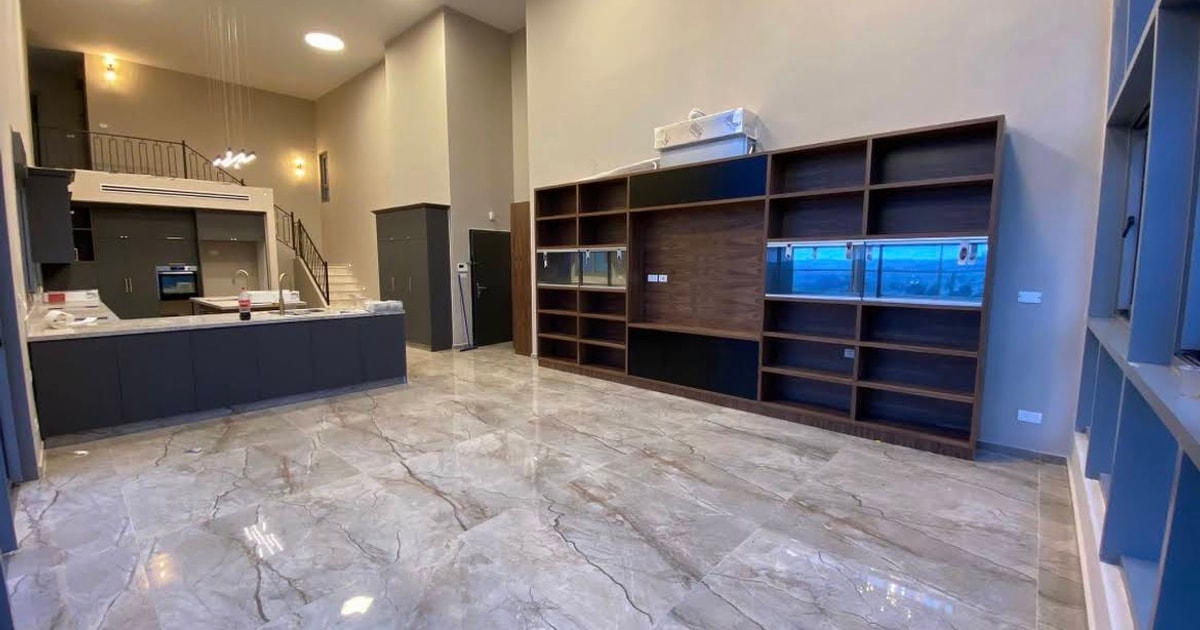
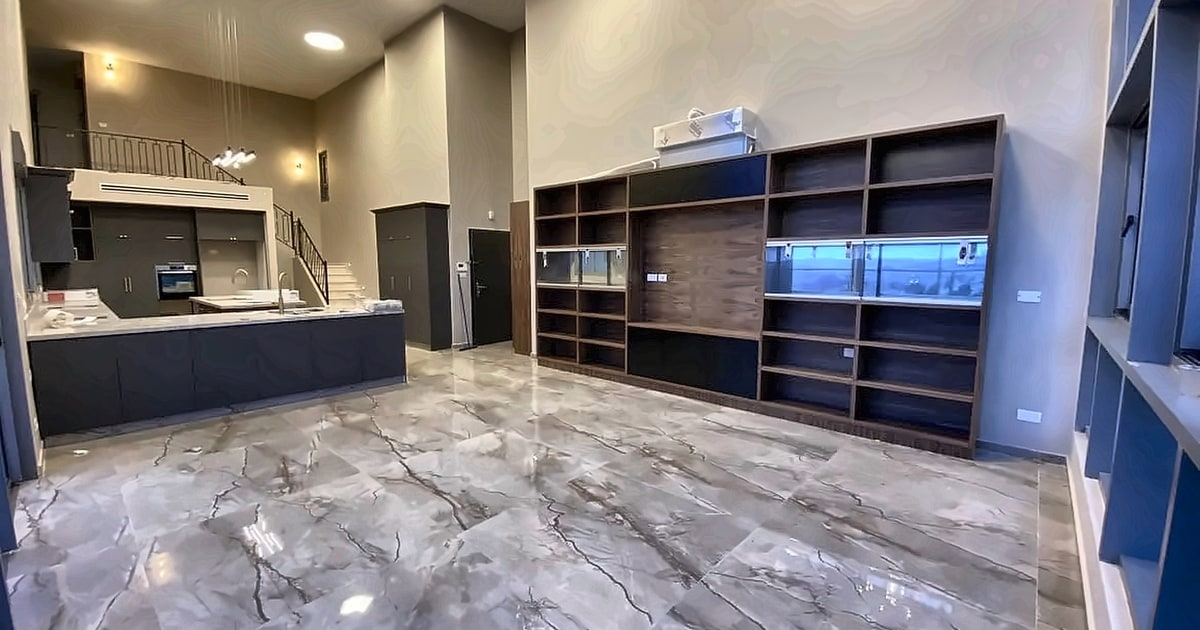
Remove the Coke bottle and sharpen project photos
- Remove the Coca-Cola bottle from the hero and the charcoal-kitchen
  photos (scripts/remove_bottle.py rebuilds the background from the
  surrounding rows, following the diagonal counter edge where needed)
- Add scripts/enhance_photos.py: JPEG-artefact denoise, 2x Lanczos
  upscale and luminance sharpening (no AI), output in assets/enhanced
- Serve every photo as 1x + 2x WebP via srcset/sizes, so retina and
  wide screens get the 2340px version

Claude-Session: https://claude.ai/code/session_019vJLFPGqvdvUTMiYhGripk

diff --git a/src/components/Sections.tsx b/src/components/Sections.tsx
@@ -1,5 +1,5 @@
 import { Star } from "lucide-react";
-import { galleryOrder, googleReviewsUrl, photos } from "../content/site";
+import { galleryOrder, googleReviewsUrl, photoSrcSet, photos } from "../content/site";
 import { useLang } from "../lib/i18n";
 import { ServiceGlyph } from "./icons";
 
@@ -68,6 +68,8 @@ export function About() {
           <div className="arch relative aspect-[3/4] shadow-[0_30px_60px_-30px_rgb(28_23_19/0.5)]">
             <img
               src={photo.src}
+              srcSet={photoSrcSet(photo)}
+              sizes="(min-width: 1024px) 28rem, 90vw"
               width={photo.width}
               height={photo.height}
               alt={photo.alt[lang]}
@@ -131,6 +133,8 @@ export function Gallery() {
               <li key={key} className="masonry-item">
                 <img
                   src={p.src}
+                  srcSet={photoSrcSet(p)}
+                  sizes="(min-width: 1024px) 25vw, (min-width: 768px) 33vw, 50vw"
                   width={p.width}
                   height={p.height}
                   alt={p.alt[lang]}

diff --git a/src/components/Hero.tsx b/src/components/Hero.tsx
@@ -1,5 +1,5 @@
 import { Phone, Star } from "lucide-react";
-import { business, googleReviewsUrl, photos, whatsappUrl } from "../content/site";
+import { business, googleReviewsUrl, photoSrcSet, photos, whatsappUrl } from "../content/site";
 import { useLang } from "../lib/i18n";
 import { WhatsAppIcon } from "./icons";
 
@@ -11,6 +11,8 @@ export function Hero() {
     <section aria-labelledby="hero-title" className="on-dark relative isolate overflow-hidden bg-night">
       <img
         src={photo.src}
+        srcSet={photoSrcSet(photo)}
+        sizes="100vw"
         width={photo.width}
         height={photo.height}
         alt={photo.alt[lang]}

diff --git a/src/content/site.ts b/src/content/site.ts
@@ -44,6 +44,11 @@ export type Photo = {
   alt: Record<Lang, string>;
 };
 
+/** 1x and 2x (enhanced) WebP variants, for srcset. */
+export function photoSrcSet(p: Photo) {
+  return `${p.src} ${p.width}w, ${p.src.replace(/\.webp$/, "@2x.webp")} ${p.width * 2}w`;
+}
+
 // Every photo is a real project by the business. Alt text describes what is actually in the frame.
 export const photos: Record<string, Photo> = {
   livingDoubleHeight: {

diff --git a/src/routes/index.tsx b/src/routes/index.tsx
@@ -13,7 +13,6 @@ export const Route = createFileRoute("/")({
     meta: socialMeta({ title: he.meta.title, description: he.meta.description, path: "/" }),
     links: [
       { rel: "canonical", href: `${SITE_URL}/` },
-      { rel: "preload", as: "image", href: "/images/living-double-height.webp", fetchPriority: "high" },
     ],
     scripts: [{ type: "application/ld+json", children: JSON.stringify(localBusinessJsonLd) }],
   }),

diff --git a/scripts/remove_bottle.py b/scripts/remove_bottle.py
@@ -1,0 +1,51 @@
+# Run from the repo root: python3 scripts/remove_bottle.py  (needs opencv-python-headless, numpy)
+# Removes the Coca-Cola bottle from two project photos by rebuilding each pixel row from the
+# pixels just left and right of the bottle (the background there is horizontal bands:
+# counter top, backsplash, wall), then adding matched grain so the patch isn't smoother than the photo.
+import cv2, numpy as np, sys
+P = "assets/photos/"
+rng = np.random.default_rng(7)
+
+def sample(im, x, y):
+    # bilinear sample, x/y float
+    x0f, y0f = int(np.floor(x)), int(np.floor(y))
+    fx, fy = x - x0f, y - y0f
+    a = im[y0f, x0f] * (1 - fx) + im[y0f, x0f + 1] * fx
+    b = im[y0f + 1, x0f] * (1 - fx) + im[y0f + 1, x0f + 1] * fx
+    return a * (1 - fy) + b * fy
+
+def clean(name, x0, y0, x1, y1, pad=4, slope=0.0, slope_until=None):
+    """slope: dy/dx of background lines to follow (0 = horizontal); applies to rows above slope_until."""
+    im = cv2.imread(P + name + ".jpg").astype(np.float32)
+    out = im.copy()
+    for y in range(y0, y1 + 1):
+        s = slope if slope_until is not None and y < slope_until else 0.0
+        for x in range(x0, x1 + 1):
+            # walk along the background line through (x, y) to just outside each side of the patch
+            xl, xr = x0 - 1 - pad / 2, x1 + 1 + pad / 2
+            # the band under a sloped edge ends at a horizontal line (slope_until), so never sample past it
+            cap = (slope_until - 1.5) if s else 1e9
+            L = sample(im, xl, min(y + s * (xl - x), cap))
+            R = sample(im, xr, min(y + s * (xr - x), cap))
+            t = (x - xl) / (xr - xl)
+            out[y, x] = L * (1 - t) + R * t
+    # grain: sample residual noise from the band just left of the patch
+    ref = im[y0:y1 + 1, x0 - 12:x0 - 2]
+    noise = ref - cv2.GaussianBlur(ref, (0, 0), 1.2)
+    tiled = np.tile(noise, (1, (x1 - x0 + 1) // noise.shape[1] + 1, 1))[:, : x1 - x0 + 1]
+    out[y0:y1 + 1, x0:x1 + 1] += tiled * 0.9
+    # soften the vertical seams
+    mask = np.zeros(im.shape[:2], np.float32)
+    mask[y0:y1 + 1, x0:x1 + 1] = 1
+    mask = cv2.GaussianBlur(mask, (0, 0), 1.0)[..., None]
+    res = im * (1 - mask) + out * mask
+    return np.clip(res, 0, 255).astype(np.uint8)
+
+jobs = {
+    "living-double-height": (230, 386, 246, 420),
+    "kitchen-u-charcoal": (437, 400, 462, 468, 4, -0.336, 437),
+}
+for name, box in jobs.items():
+    res = clean(name, *box)
+    cv2.imwrite(P + name + ".jpg", res, [cv2.IMWRITE_JPEG_QUALITY, 97])
+    print("cleaned", name)

diff --git a/scripts/enhance_photos.py b/scripts/enhance_photos.py
@@ -1,0 +1,24 @@
+# Run from the repo root: python3 scripts/enhance_photos.py  (needs opencv-python-headless, numpy)
+# Classic (non-AI) enhancement: remove JPEG blocking, upscale 2x with Lanczos, sharpen luminance only.
+import cv2, numpy as np
+def enhance(img, scale=2.0, denoise=4, amount=0.7, sigma=1.1):
+    d = cv2.fastNlMeansDenoisingColored(img, None, denoise, denoise, 5, 15)
+    up = cv2.resize(d, None, fx=scale, fy=scale, interpolation=cv2.INTER_LANCZOS4)
+    lab = cv2.cvtColor(up, cv2.COLOR_BGR2LAB).astype(np.float32)
+    L = lab[..., 0]
+    blur = cv2.GaussianBlur(L, (0, 0), sigma * scale)
+    lab[..., 0] = np.clip(L + amount * (L - blur), 0, 255)
+    out = cv2.cvtColor(lab.astype(np.uint8), cv2.COLOR_LAB2BGR)
+    # mild local contrast (CLAHE) on luminance
+    lab2 = cv2.cvtColor(out, cv2.COLOR_BGR2LAB)
+    lab2[..., 0] = cv2.createCLAHE(clipLimit=1.2, tileGridSize=(8, 8)).apply(lab2[..., 0])
+    return cv2.cvtColor(lab2, cv2.COLOR_LAB2BGR)
+if __name__ == "__main__":
+    import os
+    os.makedirs("assets/enhanced", exist_ok=True)
+    for f in sorted(os.listdir("assets/photos")):
+        if not f.endswith(".jpg"):
+            continue
+        out = enhance(cv2.imread("assets/photos/" + f), denoise=3)
+        cv2.imwrite("assets/enhanced/" + f, out, [cv2.IMWRITE_JPEG_QUALITY, 93])
+        print(f, out.shape[1], "x", out.shape[0])

diff --git a/README.md b/README.md
@@ -14,7 +14,7 @@
 npm install
 npm run dev      # פיתוח: http://localhost:3000
 npm run build    # בנייה ל-dist/client (HTML סטטי + נכסים)
-npm run images   # המרת התמונות מ-assets/photos ל-WebP ב-public/images
+npm run images   # יצירת WebP בגודל 1x ו-2x ב-public/images מתוך assets/enhanced
 ```
 
 את התיקייה `dist/client` אפשר להעלות לכל אחסון סטטי (Netlify, Vercel, Cloudflare Pages, GitHub Pages).
@@ -32,6 +32,14 @@ npm run images   # המרת התמונות מ-assets/photos ל-WebP ב-public/im
 `/` · `/accessibility` · `/privacy` · `/terms` · `/thank-you` (אחרי שליחת הטופס, noindex) · `404.html` (לכל כתובת שלא קיימת)
 
 הלוגו (קשת אבן ירושלמית) נבנה בקוד ב-`scripts/make-logo.mjs`. `npm run logo` מייצר מחדש את הלוגו, את `favicon.svg` ואת כל הפביקונים.
+
+## תמונות
+
+1. `assets/photos`: המקור (הבקבוק הוסר משתי תמונות עם `scripts/remove_bottle.py`).
+2. `python3 scripts/enhance_photos.py`: ניקוי דחיסה, הגדלה פי 2 וחידוד (בלי AI), לתיקייה `assets/enhanced`. דורש `pip install opencv-python-headless numpy`.
+3. `npm run images`: יוצר את קובצי ה-WebP לאתר.
+
+כשיגיעו תמונות מקוריות מהטלפון, מחליפים אותן ב-`assets/photos` ומריצים את שלבים 2 ו-3.
 
 ## מבנה
 
